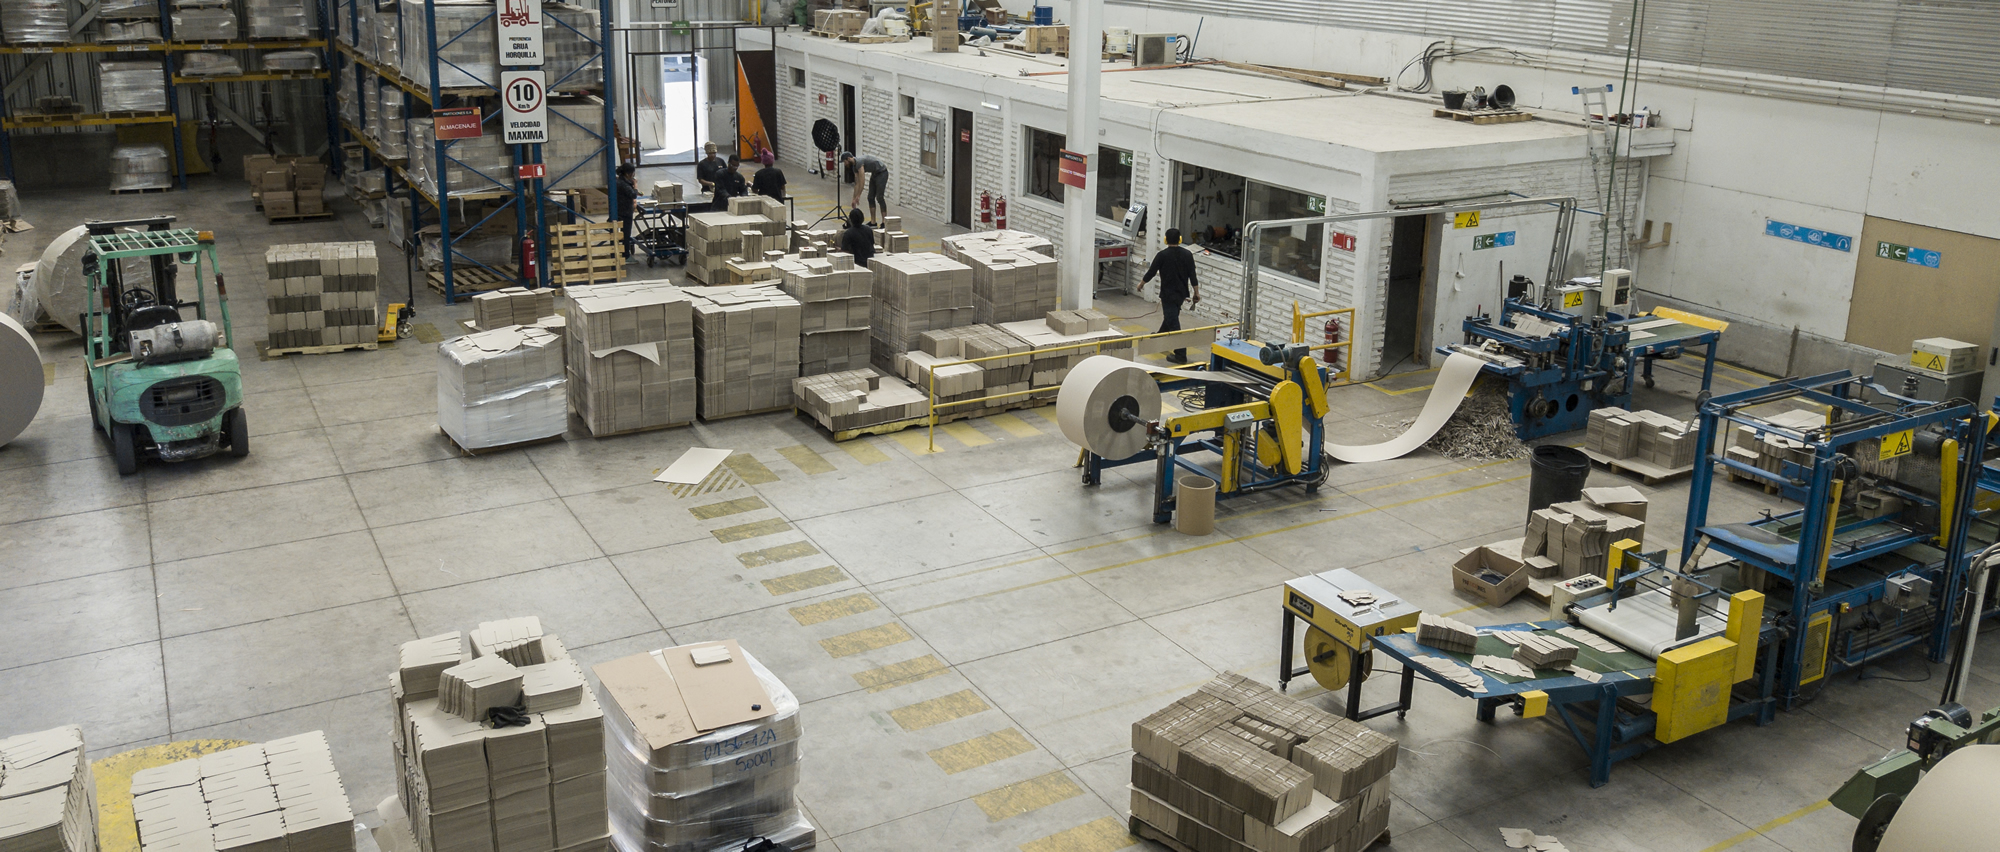
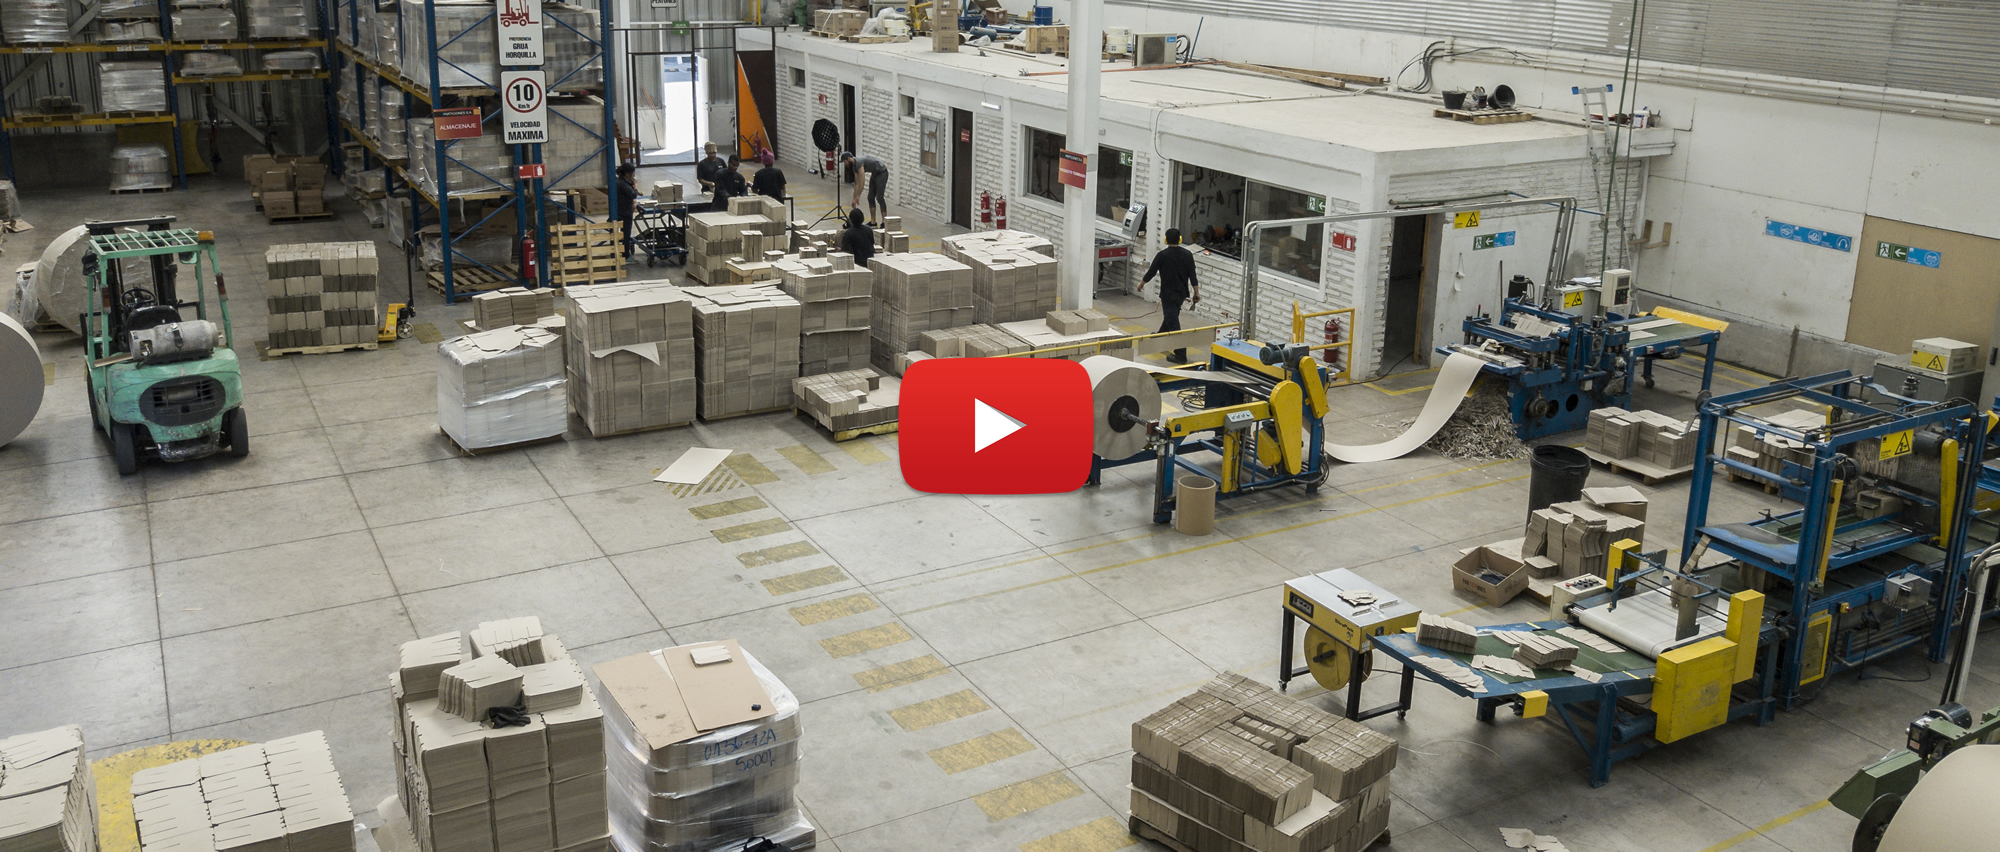
icono video

Changed region(s): [[0.434, 0.3967, 0.558, 0.6103]]

diff --git a/empresa/index.html b/empresa/index.html
@@ -210,7 +210,7 @@
 
           <div style="width: 700px;height:450px;margin: 0 auto;">
             <div class="empresa-video">
-              <video src="../videos/VideoParticiones.mp4" poster="../img/equipo-video-poster.jpg" controls autoplay></video>
+              <video src="../videos/VideoParticiones.mp4" poster="../img/equipo-video-poster.jpg" controls></video>
             </div>
           </div>
         </div>
